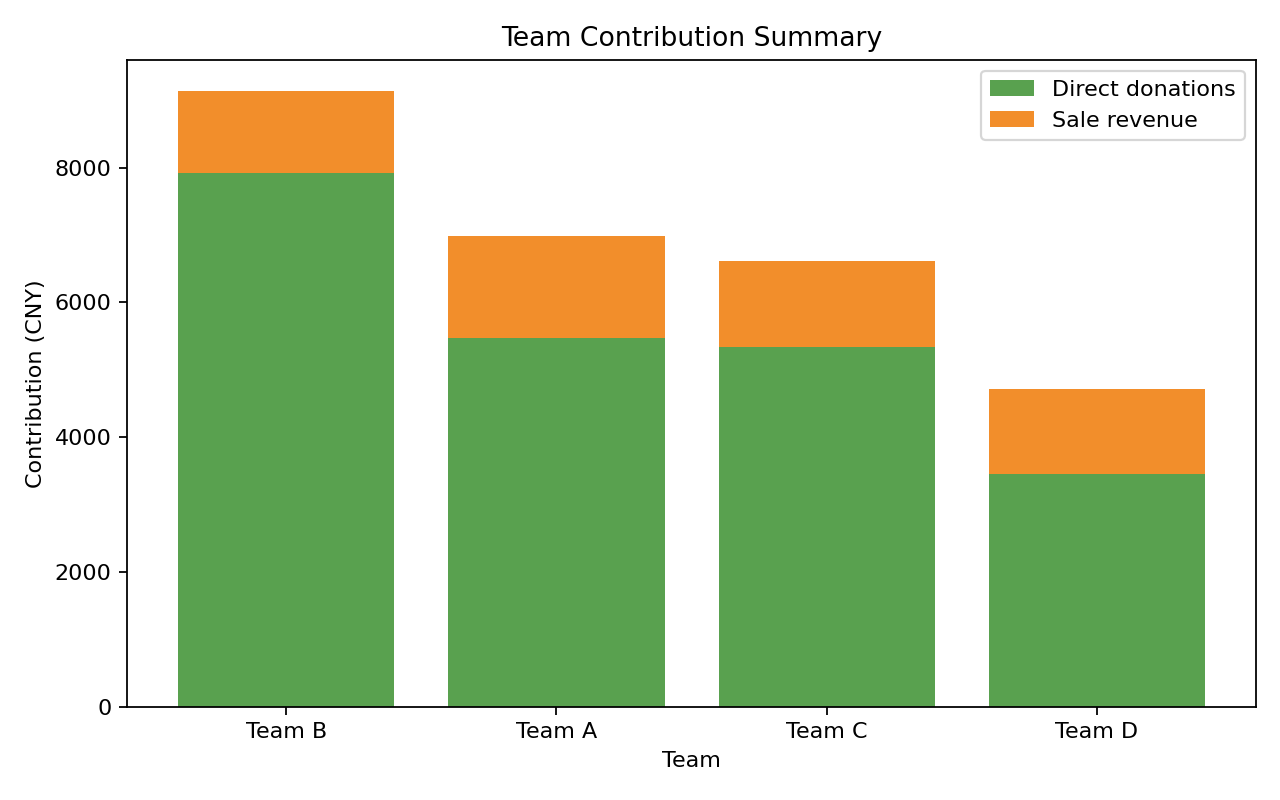
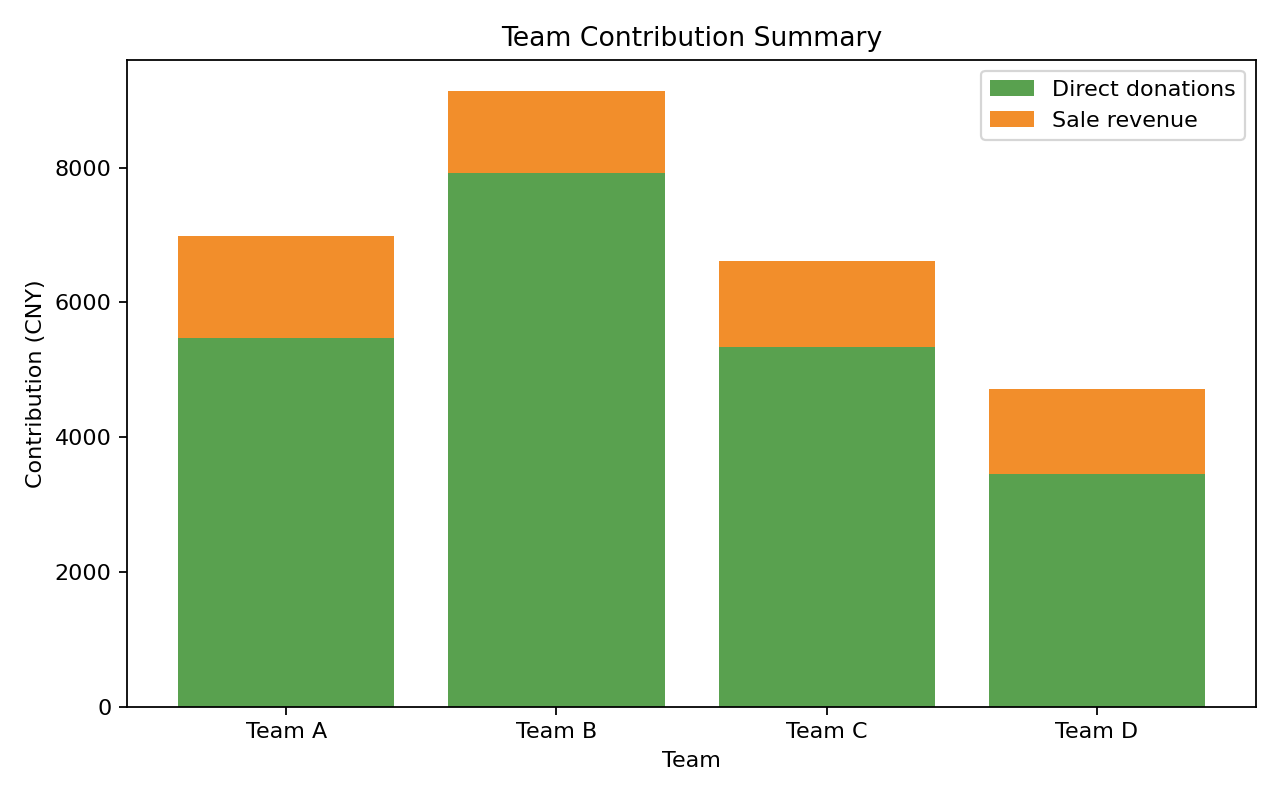
Rebuild final structure and strict formatting checks

Changed region(s): [[0.3438, 0.0938, 0.5312, 0.4375], [0.125, 0.0938, 0.3125, 0.4375], [0.4375, 0.9062, 0.4688, 0.9375]]

diff --git a/tests/test_formatting.py b/tests/test_formatting.py
@@ -7,6 +7,51 @@ PROJECT_ROOT = Path(__file__).resolve().parents[1]
 TEXT_EXTENSIONS = {".py", ".csv", ".md", ".json", ".yml", ".yaml"}
 SKIP_PARTS = {".git", "__pycache__", ".matplotlib_cache", ".ipynb_checkpoints"}
 
+IMPORTANT_PYTHON_FILES = [
+    "src/utils.py",
+    "src/clean_data.py",
+    "src/analyze_donations.py",
+    "src/analyze_inventory.py",
+    "src/analyze_sales.py",
+    "src/analyze_booth_layout.py",
+    "src/create_charts.py",
+    "src/model_utils.py",
+    "src/train_price_model.py",
+    "src/train_sale_success_model.py",
+    "src/run_all.py",
+    "dashboard/app.py",
+    "tests/test_clean_data.py",
+    "tests/test_analysis.py",
+    "tests/test_outputs.py",
+    "tests/test_privacy.py",
+    "tests/test_formatting.py",
+]
+
+IMPORTANT_CSV_FILES = [
+    "data/raw/donation_records_sample.csv",
+    "data/raw/item_inventory_sample.csv",
+    "data/raw/sale_records_sample.csv",
+    "data/processed/cleaned_donations.csv",
+    "data/processed/cleaned_inventory.csv",
+    "data/processed/cleaned_sales.csv",
+    "data/processed/merged_event_data.csv",
+]
+
+IMPORTANT_MARKDOWN_FILES = [
+    "README.md",
+    "docs/project_background.md",
+    "docs/data_dictionary.md",
+    "docs/workflow_notes.md",
+    "docs/data_privacy_note.md",
+    "docs/methodology.md",
+    "docs/limitations.md",
+    "docs/reflection.md",
+    "docs/future_improvements.md",
+    "reports/final_charity_sale_report.md",
+    "reports/event_operation_review.md",
+    "reports/model_report.md",
+]
+
 
 def project_text_files():
     for file_path in PROJECT_ROOT.rglob("*"):
@@ -19,6 +64,37 @@ def project_text_files():
 
 
 class FormattingTest(unittest.TestCase):
+    def test_readme_has_enough_normal_lines(self):
+        readme_lines = (PROJECT_ROOT / "README.md").read_text(encoding="utf-8").splitlines()
+        self.assertGreaterEqual(len(readme_lines), 100)
+
+    def test_important_python_files_have_normal_line_counts(self):
+        for relative_path in IMPORTANT_PYTHON_FILES:
+            lines = (PROJECT_ROOT / relative_path).read_text(encoding="utf-8").splitlines()
+            self.assertGreater(
+                len(lines),
+                30,
+                f"{relative_path} should not be compressed into a few lines.",
+            )
+
+    def test_important_csv_files_have_normal_line_counts(self):
+        for relative_path in IMPORTANT_CSV_FILES:
+            lines = (PROJECT_ROOT / relative_path).read_text(encoding="utf-8").splitlines()
+            self.assertGreater(
+                len(lines),
+                10,
+                f"{relative_path} should have one record per line.",
+            )
+
+    def test_important_markdown_files_have_normal_line_counts(self):
+        for relative_path in IMPORTANT_MARKDOWN_FILES:
+            lines = (PROJECT_ROOT / relative_path).read_text(encoding="utf-8").splitlines()
+            self.assertGreater(
+                len(lines),
+                10,
+                f"{relative_path} should have normal Markdown line breaks.",
+            )
+
     def test_large_text_files_are_not_compressed_into_one_line(self):
         for file_path in project_text_files():
             text = file_path.read_text(encoding="utf-8")

diff --git a/src/create_charts.py b/src/create_charts.py
@@ -50,13 +50,15 @@ def create_item_quantity_by_category_chart():
 
 
 def create_team_contribution_chart():
-    teams = load_csv(SUMMARY_DIR / "team_summary.csv")
+    donation_by_team = load_csv(SUMMARY_DIR / "donation_by_team.csv")
+    sales_by_team = load_csv(SUMMARY_DIR / "sales_by_team.csv")
+    teams = donation_by_team.merge(sales_by_team, on="team", how="outer").fillna(0)
     plt.figure(figsize=(8, 5))
-    plt.bar(teams["team"], teams["direct_donation_cny"], label="Direct donations", color="#59A14F")
+    plt.bar(teams["team"], teams["team_donation_cny"], label="Direct donations", color="#59A14F")
     plt.bar(
         teams["team"],
         teams["sale_revenue_cny"],
-        bottom=teams["direct_donation_cny"],
+        bottom=teams["team_donation_cny"],
         label="Sale revenue",
         color="#F28E2B",
     )
@@ -127,8 +129,16 @@ def create_donation_source_chart():
     plt.close()
 
 
+def remove_legacy_summary_tables():
+    for file_name in ["team_summary.csv", "team_inventory_summary.csv", "sales_by_booth.csv"]:
+        file_path = SUMMARY_DIR / file_name
+        if file_path.exists():
+            file_path.unlink()
+
+
 def create_all_charts():
     ensure_directory(CHARTS_DIR)
+    remove_legacy_summary_tables()
     create_revenue_by_category_chart()
     create_item_quantity_by_category_chart()
     create_team_contribution_chart()

diff --git a/tests/test_outputs.py b/tests/test_outputs.py
@@ -15,6 +15,7 @@ from create_charts import create_all_charts
 from utils import CHARTS_DIR, SUMMARY_DIR
 from train_price_model import train_price_models
 from train_sale_success_model import train_sale_success_models
+from model_utils import METRICS_PATH, MODEL_REPORT_PATH
 
 
 class OutputTest(unittest.TestCase):
@@ -37,7 +38,6 @@ class OutputTest(unittest.TestCase):
             "inventory_status_summary.csv",
             "sales_by_category.csv",
             "sales_by_team.csv",
-            "team_summary.csv",
             "booth_summary.csv",
             "estimate_vs_actual_summary.csv",
         ]
@@ -54,6 +54,10 @@ class OutputTest(unittest.TestCase):
             "estimate_vs_actual_price.png",
             "booth_revenue_comparison.png",
             "donation_source_breakdown.png",
+            "predicted_vs_actual_price.png",
+            "feature_importance_price.png",
+            "sale_success_confusion_matrix.png",
+            "model_comparison.png",
         ]
         for file_name in expected_charts:
             file_path = CHARTS_DIR / file_name
@@ -62,10 +66,10 @@ class OutputTest(unittest.TestCase):
 
     def test_model_and_report_outputs_are_created(self):
         expected_files = [
-            PROJECT_ROOT / "models" / "model_metrics.json",
+            METRICS_PATH,
             PROJECT_ROOT / "reports" / "final_charity_sale_report.md",
             PROJECT_ROOT / "reports" / "event_operation_review.md",
-            PROJECT_ROOT / "reports" / "model_report.md",
+            MODEL_REPORT_PATH,
             PROJECT_ROOT / "notebooks" / "charity_sale_analysis_walkthrough.ipynb",
             PROJECT_ROOT / "dashboard" / "app.py",
         ]

diff --git a/dashboard/app.py b/dashboard/app.py
@@ -20,7 +20,13 @@ def load_data():
     booths = pd.read_csv(PROCESSED_DIR / "cleaned_booth_layout.csv")
     merged = pd.read_csv(PROCESSED_DIR / "merged_event_data.csv")
     booth_summary = pd.read_csv(SUMMARY_DIR / "booth_summary.csv")
-    team_summary = pd.read_csv(SUMMARY_DIR / "team_summary.csv")
+    donation_by_team = pd.read_csv(SUMMARY_DIR / "donation_by_team.csv")
+    sales_by_team = pd.read_csv(SUMMARY_DIR / "sales_by_team.csv")
+    team_summary = donation_by_team.merge(sales_by_team, on="team", how="outer").fillna(0)
+    team_summary["total_contribution_cny"] = (
+        team_summary["team_donation_cny"] + team_summary["sale_revenue_cny"]
+    )
+    team_summary = team_summary.sort_values("total_contribution_cny", ascending=False)
     return donations, inventory, sales, booths, merged, booth_summary, team_summary
 
 

diff --git a/src/analyze_sales.py b/src/analyze_sales.py
@@ -82,14 +82,14 @@ def run_analysis():
     team_summary = summarize_team_contribution(donations, revenue_by_team)
 
     save_csv(revenue_by_category, SUMMARY_DIR / "sales_by_category.csv")
-    save_csv(revenue_by_booth, SUMMARY_DIR / "sales_by_booth.csv")
     save_csv(revenue_by_team, SUMMARY_DIR / "sales_by_team.csv")
-    save_csv(team_summary, SUMMARY_DIR / "team_summary.csv")
     save_csv(estimate_vs_actual, SUMMARY_DIR / "estimate_vs_actual_summary.csv")
 
     print("Sales analysis finished.")
     print(f"Total sale revenue: {sales['total_sale_cny'].sum():,.0f} CNY")
     print(f"Items sold: {sales['quantity_sold'].sum():,.0f}")
+    print(f"Booth areas with sales: {len(revenue_by_booth)}")
+    print(f"Teams in contribution summary: {len(team_summary)}")
 
 
 if __name__ == "__main__":

diff --git a/src/analyze_inventory.py b/src/analyze_inventory.py
@@ -44,11 +44,11 @@ def run_analysis():
 
     save_csv(category_summary, SUMMARY_DIR / "category_summary.csv")
     save_csv(status_summary, SUMMARY_DIR / "inventory_status_summary.csv")
-    save_csv(team_inventory_summary, SUMMARY_DIR / "team_inventory_summary.csv")
 
     print("Inventory analysis finished.")
     print(f"Item groups: {len(inventory)}")
     print(f"Total donated item quantity: {inventory['quantity'].sum():,.0f}")
+    print(f"Teams with inventory records: {len(team_inventory_summary)}")
 
 
 if __name__ == "__main__":

diff --git a/README.md b/README.md
@@ -284,8 +284,8 @@ community-charity-donation-analysis/
     ├── test_clean_data.py
     ├── test_analysis.py
     ├── test_outputs.py
-    ├── test_models.py
-    └── test_privacy.py
+    ├── test_privacy.py
+    └── test_formatting.py
 ```
 
 ## Reports and Documentation